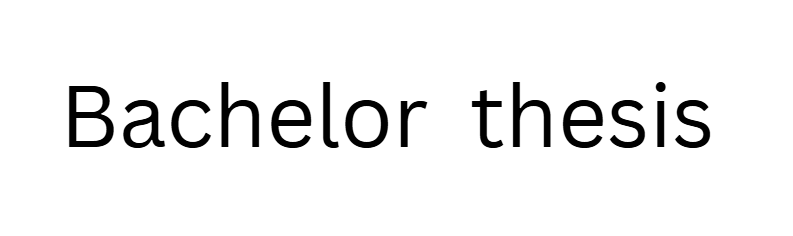
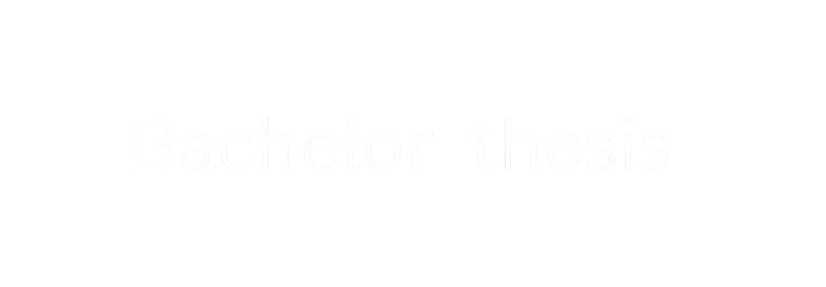
Change image file

Changed region(s): [[0.0605, 0.3559, 0.5448, 0.6229], [0.575, 0.3559, 0.9079, 0.6229], [0.8172, 0.3559, 0.8474, 0.3856]]

diff --git a/src/components/OfficeBook.tsx b/src/components/OfficeBook.tsx
@@ -21,14 +21,13 @@ export const OfficeBook = () => {
         </Typography>
         <Typography className="mb-8 font-normal">
           A web application where users can book or register office spaces. Made
-          during my hack week at the salt bootcamp. Functionalties:
-          <ul>
-            <li>Book office spaces</li>
-            <li>Filter offices by location</li>
-            <li>Edit/Delete bookings</li>
-            <li>View your current/previous bookings</li>
-            <li>Register new office spaces</li>
-          </ul>
+          during my hack week at the salt bootcamp. <br />
+          Functionalties:
+          <li>Book office spaces</li>
+          <li>Filter offices by location</li>
+          <li>Edit/Delete bookings</li>
+          <li>View your current/previous bookings</li>
+          <li>Register new office spaces</li>
         </Typography>
 
         <div className="flex gap-5">

diff --git a/src/components/BachelorThesis.tsx b/src/components/BachelorThesis.tsx
@@ -8,10 +8,10 @@ import {
 export const BachelorThesis = () => {
   return (
     <Card className="w-full flex-row rounded-none shadow-none bg-[#05293b] text-[#e5e7e0] py-10">
-      <CardHeader className="m-0 w-1/2 rounded-none my-auto shadow-none mx-5">
+      <CardHeader className="m-0 w-1/2 rounded-none my-auto shadow-none mx-5 bg-transparent">
         <img
-          src="/src/assets/bachelor-thesis.png"
-          alt="picture with bachelor thesis text"
+          src="./src/assets/bachelor-thesis.png"
+          alt="picture with text bachelor thesis"
           className="w-full"
         />
       </CardHeader>
